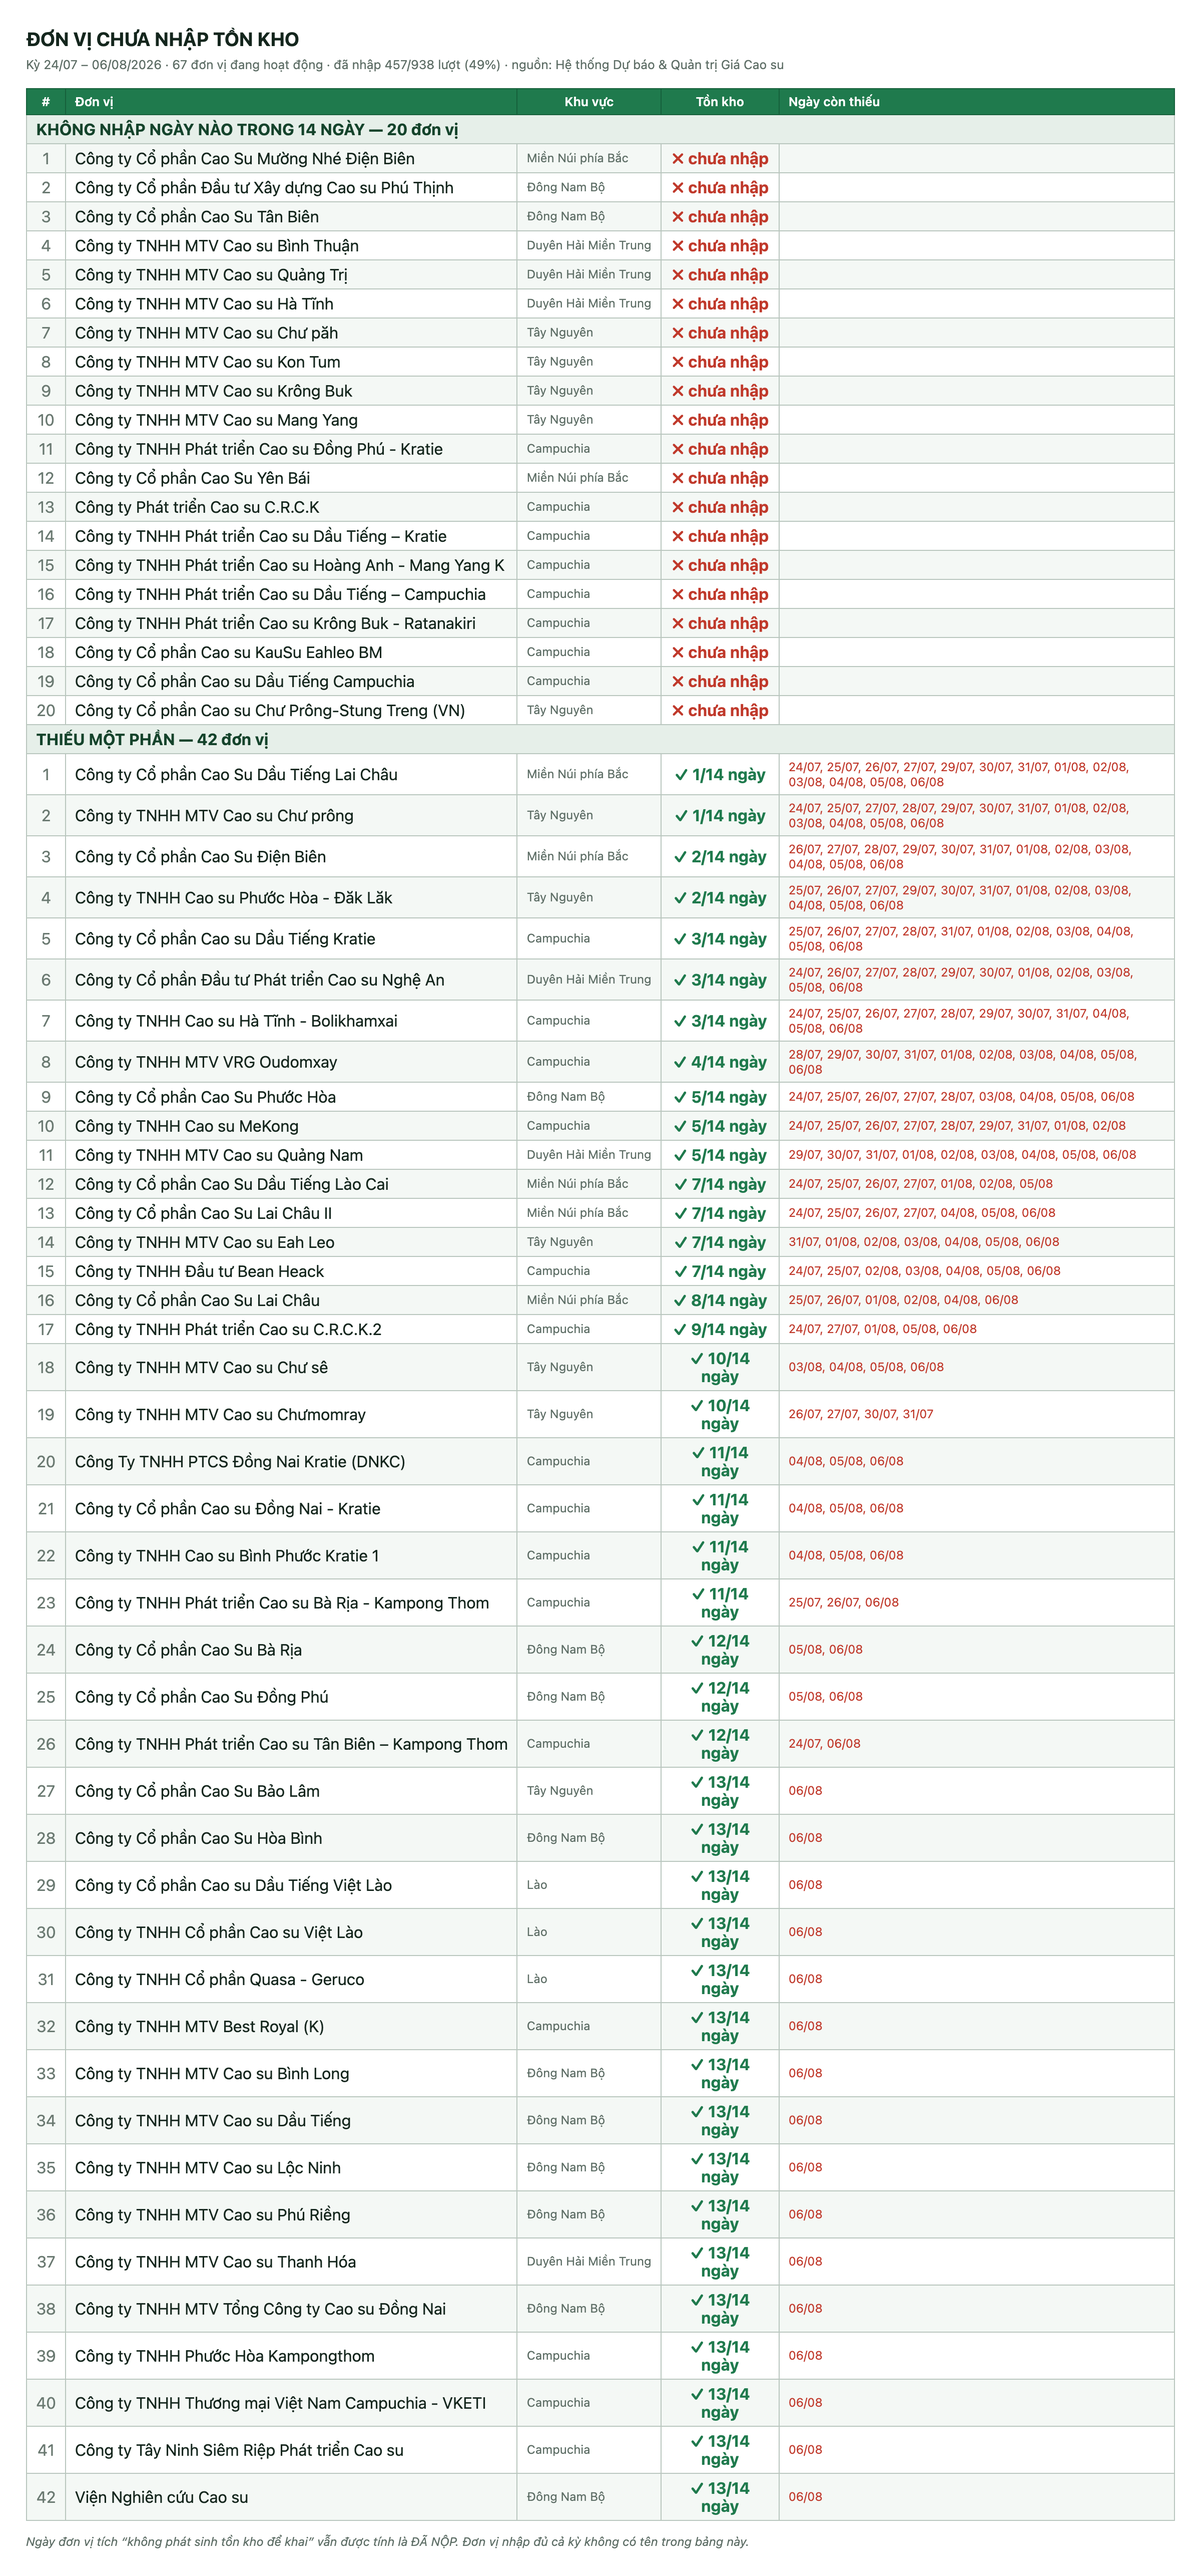
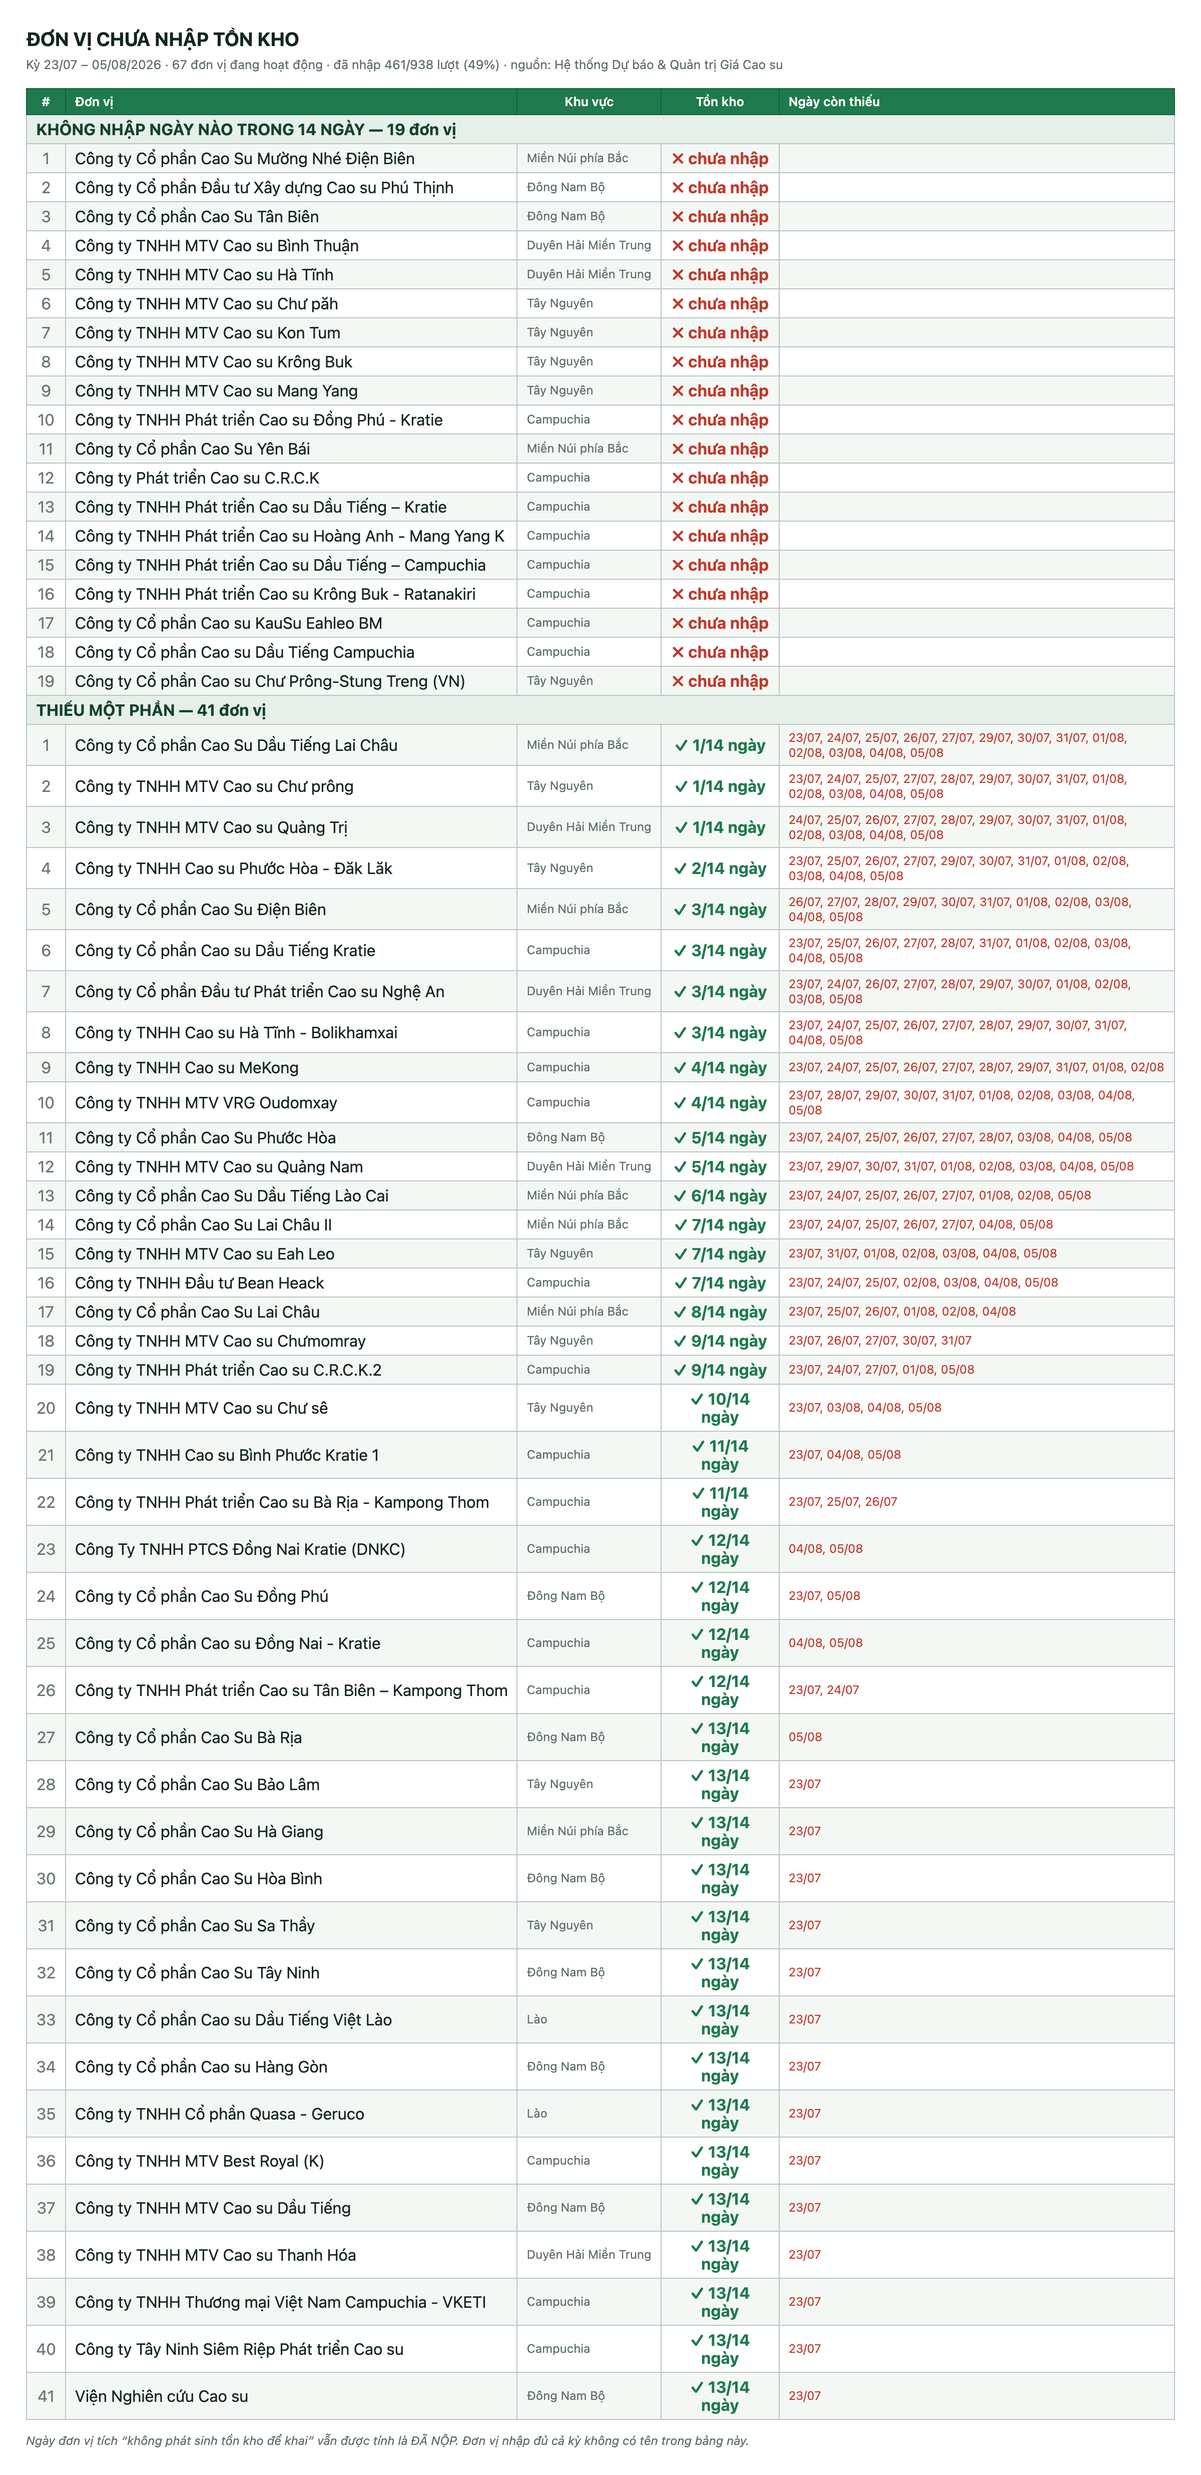
feat(skill): end the chase period yesterday so today is not counted late
Sixteen of the forty-two units flagged as partially late were missing only
today, at three in the afternoon — they still had the evening to file. Counting
the current day buries the units that are genuinely behind.

Changed region(s): [[0.0312, 0.0, 0.9688, 0.9968], [0.4375, 0.2803, 0.5312, 0.9968]]

diff --git a/.claude/skills/bao-cao-nhap-lieu/scripts/make-report.py b/.claude/skills/bao-cao-nhap-lieu/scripts/make-report.py
@@ -54,9 +54,11 @@ def run_sql(sql: str, local: bool) -> str:
     return res.stdout
 
 
-def collect(days: int, local: bool) -> dict[str, list]:
-    """Gom kết quả theo nhóm: A tình trạng nộp · B giá mủ sai đơn vị · C giá bán sai · D thiếu đơn giá."""
-    sql = (HERE / "collect.sql").read_text().replace(":days", str(days))
+def collect(days: int, local: bool, until: date) -> dict[str, list]:
+    """Gom kết quả theo nhóm: A tình trạng nộp · B giá mủ sai đơn vị · C giá bán sai · D thiếu đơn giá
+    · E tồn kho theo ngày. Kỳ xét = `days` ngày, chốt tới `until`."""
+    sql = ((HERE / "collect.sql").read_text()
+           .replace(":days", str(days)).replace(":until", f"'{until.isoformat()}'"))
     rows = [ln.split("|") for ln in run_sql(sql, local).splitlines() if ln.strip()]
     return {g: [r[1:] for r in rows if r[0] == g] for g in "ABCDE"}
 
@@ -99,15 +101,14 @@ def mark(v: str) -> str:
             else f'<td class="mark good">✓ {v} ngày</td>')
 
 
-def page_missing(rows_a: list, rows_d: list, days: int) -> str:
+def page_missing(rows_a: list, rows_d: list, days: int, until: date) -> str:
     """Ảnh A: KHÔNG NỘP GÌ (thiếu mọi biểu áp dụng) và THIẾU MỘT PHẦN (thiếu ít nhất 1 biểu)."""
     def missing(v: str) -> bool:      # '-' = không áp dụng → không tính là thiếu
         return v != "-" and int(v) == 0
 
     full = [a for a in rows_a if all(missing(v) or v == "-" for v in a[1:])]
     part = [a for a in rows_a if a not in full and any(missing(v) for v in a[1:])]
-    today = date.today()
-    ky = f"{(today - timedelta(days=days - 1)).strftime('%d/%m')} – {today.strftime('%d/%m/%Y')}"
+    ky = f"{(until - timedelta(days=days - 1)).strftime('%d/%m')} – {until.strftime('%d/%m/%Y')}"
 
     def block(title: str, items: list) -> str:
         out = [f'<tr class="grp"><td colspan="4">{title} — {len(items)} đơn vị</td></tr>']
@@ -179,15 +180,14 @@ def page_wrong(rows_b: list, rows_c: list) -> str:
 """
 
 
-def page_stock_missing(rows_e: list, days: int) -> str:
+def page_stock_missing(rows_e: list, days: int, until: date) -> str:
     """Ảnh C: RIÊNG biểu Tồn kho, cùng khuôn với ảnh A (chia nhóm, không phải ma trận).
 
     Chia 2 nhóm để đốc thúc đúng đối tượng: đơn vị **không nhập ngày nào** (cần gọi ngay) và đơn vị
     **thiếu một phần** (chỉ cần nhắc bù ngày trống). Nhóm sau liệt kê luôn ngày còn thiếu.
     """
-    today = date.today()
-    dates = [(today - timedelta(days=i)).isoformat() for i in range(days - 1, -1, -1)]
-    ky = f"{dates[0][8:10]}/{dates[0][5:7]} – {today.strftime('%d/%m/%Y')}"
+    dates = [(until - timedelta(days=i)).isoformat() for i in range(days - 1, -1, -1)]
+    ky = f"{dates[0][8:10]}/{dates[0][5:7]} – {until.strftime('%d/%m/%Y')}"
     dm = lambda d: f"{d[8:10]}/{d[5:7]}"  # noqa: E731
 
     units = []
@@ -266,17 +266,23 @@ def main() -> None:
     ap.add_argument("--out", default="plans/visuals", help="thư mục lưu ảnh (mặc định plans/visuals)")
     ap.add_argument("--local", action="store_true", help="lấy số liệu ở DB local thay vì prod")
     ap.add_argument("--only", choices=("all", "stock"), default="all",
-                    help="'stock' = chỉ ảnh ma trận Tồn kho theo ngày (mặc định: cả 3 ảnh)")
+                    help="'stock' = chỉ ảnh Tồn kho (mặc định: cả 3 ảnh)")
+    # Chốt kỳ tới HÔM QUA là mặc định hợp lý cho báo cáo đốc thúc: hôm nay chưa hết ngày, đơn vị
+    # chưa nhập không phải là nợ. Muốn tính cả hôm nay thì --until <ngày hôm nay>.
+    ap.add_argument("--until", default=(date.today() - timedelta(days=1)).isoformat(),
+                    help="ngày CUỐI kỳ, YYYY-MM-DD (mặc định: hôm qua)")
     args = ap.parse_args()
 
-    g = collect(args.days, args.local)
+    until = date.fromisoformat(args.until)
+    g = collect(args.days, args.local, until)
     out_dir = pathlib.Path(args.out)
     if not out_dir.is_absolute():
         out_dir = ROOT / out_dir
     # 1500px: đủ cho 14 cột ngày + tên đơn vị nằm gọn 1 dòng (ngày dài hơn thì nới thêm).
-    pages = [("C-don-vi-chua-nhap-ton-kho.png", page_stock_missing(g["E"], args.days), 1200)]
+    pages = [("C-don-vi-chua-nhap-ton-kho.png",
+              page_stock_missing(g["E"], args.days, until), 1200)]
     if args.only == "all":
-        pages = [("A-don-vi-chua-nhap-lieu.png", page_missing(g["A"], g["D"], args.days)),
+        pages = [("A-don-vi-chua-nhap-lieu.png", page_missing(g["A"], g["D"], args.days, until)),
                  ("B-don-vi-nhap-sai-don-vi-tinh.png", page_wrong(g["B"], g["C"]))] + pages
     made = shoot(pages, out_dir)
     print(f"{len(g['A'])} đơn vị đang hoạt động · {len(g['D'])} ngày thiếu đơn giá · "

diff --git a/.claude/skills/bao-cao-nhap-lieu/SKILL.md b/.claude/skills/bao-cao-nhap-lieu/SKILL.md
@@ -21,7 +21,8 @@ uv run --directory apps/api python .claude/skills/bao-cao-nhap-lieu/scripts/make
 
 | Tuỳ chọn | Mặc định | Ý nghĩa |
 |---|---|---|
-| `--days N` | 7 | Kỳ xét "đã nộp chưa" = N ngày gần nhất |
+| `--days N` | 7 | Kỳ xét "đã nộp chưa" = N ngày |
+| `--until NGÀY` | **hôm qua** | Ngày cuối kỳ. Mặc định BỎ hôm nay: hôm nay chưa hết ngày, đơn vị chưa nhập không phải là nợ — kể vào là nhắc oan và làm loãng danh sách thật |
 | `--out DIR` | `plans/visuals` | Thư mục lưu ảnh (có plan đang mở thì trỏ vào `{plan_dir}/visuals/`) |
 | `--local` | tắt | Lấy số liệu ở DB local thay vì prod (để thử) |
 | `--only stock` | `all` | Chỉ dựng ảnh C (Tồn kho); mặc định dựng cả 3 ảnh |
